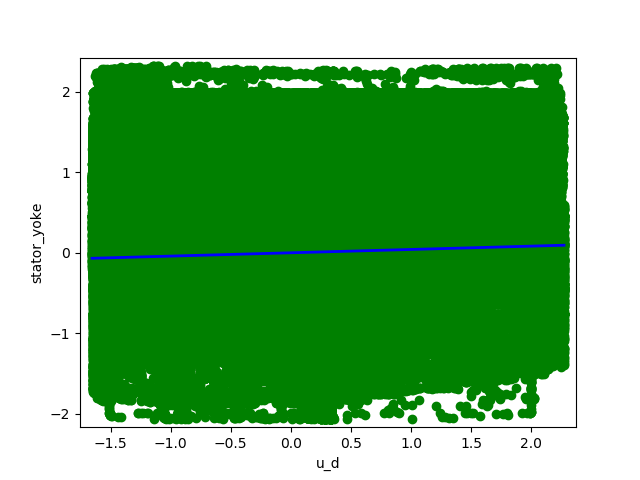
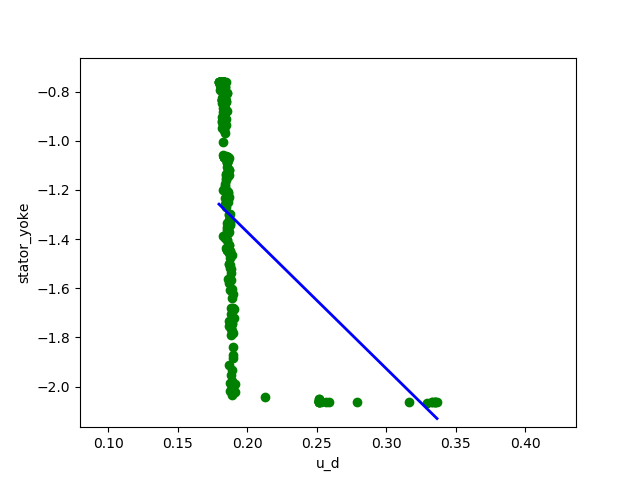
Fixed some bugs.

diff --git a/src/LinearReg.py b/src/LinearReg.py
@@ -13,14 +13,18 @@ def main(path, input_col, label_col, data_start, data_end):
         train_path: Path to CSV file containing dataset for training.
     """
     x, y = util.load_dataset(path, input_col, label_col)
-    x_train, x_test, y_train, y_test = train_test_split(x, y, test_size=0.33, random_state=42)
+    x_train, x_test, y_train, y_test = train_test_split(x[data_start: data_end], y[data_start: data_end], test_size=0.33, random_state=0)
     n_label = len(label_col)
     n_input = len(input_col)
     theta = np.zeros((n_label, n_input + 1))
     for i in range(n_label):
         reg = LinearRegression().fit(x_train, y_train[:, 0])
         theta[i, 0] = reg.intercept_
+        print(reg.coef_)
         theta[i, 1:] = reg.coef_
+
+        print('Multiple Linear Regression Score : ', reg.score(x_test, y_test[:, i]))
+
     if n_input == 1:
         for i in range(n_label):
             save_path = "plots/" + input_col[0] + '_vs_' + label_col[i] + '.png'
@@ -31,7 +35,7 @@ def main(path, input_col, label_col, data_start, data_end):
 
 if __name__ == '__main__':
     main(path='pmsm_temperature_data.csv',
-         input_col=["u_d"],
+         input_col=["pm", "coolant", "ambient", "i_d", "u_d"],
          label_col=["stator_yoke", "stator_tooth", "stator_winding"],
          data_start=0,
          data_end=1000)
